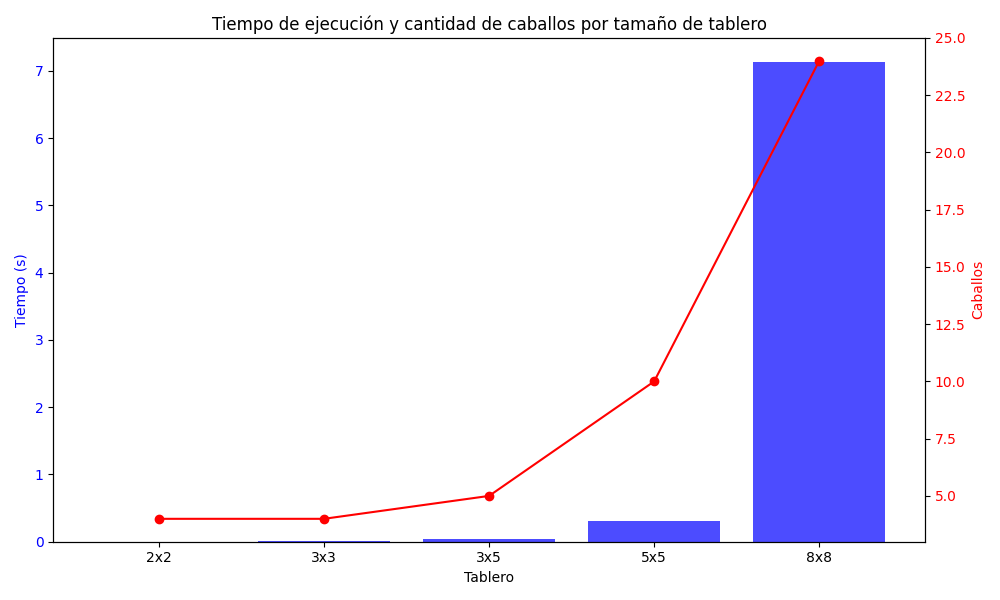
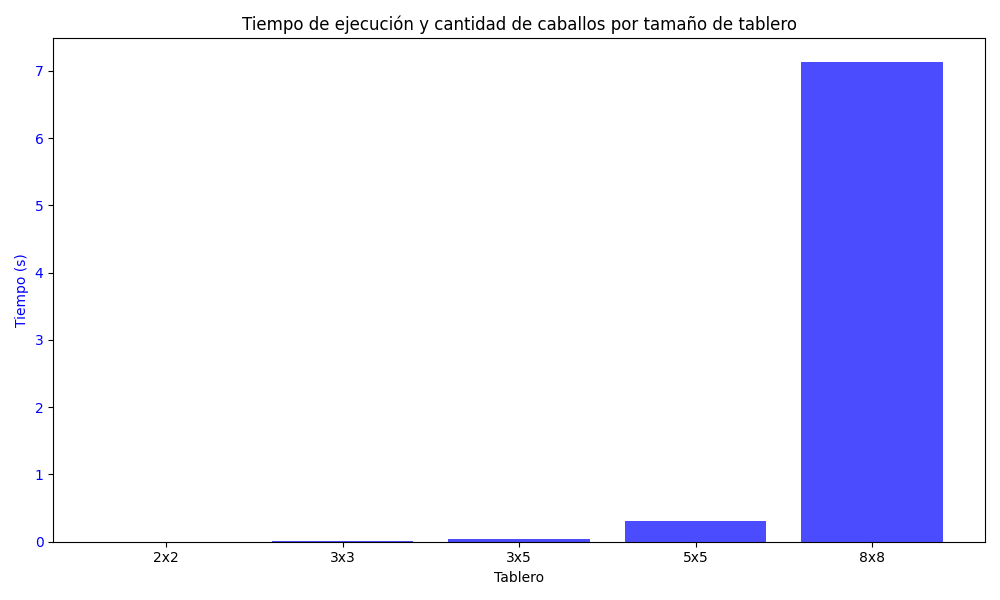
Remove knights from chart

diff --git a/ia_practica_1/utils/chart_creator.py b/ia_practica_1/utils/chart_creator.py
@@ -10,22 +10,23 @@ def create_byb_chart():
     # Datos de la tabla
     tableros = ["2x2", "3x3", "3x5", "5x5", "8x8"]
     tiempos = [0.000, 0.008, 0.040, 0.315, 7.134]
-    caballos = [4, 4, 5, 10, 24]
+    # caballos = [4, 4, 5, 10, 24]
 
     # Crear la figura y los ejes
     fig, ax1 = plt.subplots(figsize=(10, 6))
 
     # Gráfico de barras para el tiempo
     ax1.bar(tableros, tiempos, color='blue', alpha=0.7, label="Tiempo (s)")
+    # ax1.plot(tableros, tiempos, color='red', marker='o', label="Tiempo (s)")
     ax1.set_xlabel("Tablero")
     ax1.set_ylabel("Tiempo (s)", color='blue')
     ax1.tick_params(axis='y', labelcolor='blue')
 
     # Crear un segundo eje para la cantidad de caballos
-    ax2 = ax1.twinx()
-    ax2.plot(tableros, caballos, color='red', marker='o', label="Caballos")
-    ax2.set_ylabel("Caballos", color='red')
-    ax2.tick_params(axis='y', labelcolor='red')
+    # ax2 = ax1.twinx()
+    # ax2.plot(tableros, caballos, color='red', marker='o', label="Caballos")
+    # ax2.set_ylabel("Caballos", color='red')
+    # ax2.tick_params(axis='y', labelcolor='red')
 
     # Títulos y leyenda
     plt.title("Tiempo de ejecución y cantidad de caballos por tamaño de tablero")
@@ -39,3 +40,5 @@ def create_byb_chart():
     fig.savefig(img_path)
 
     plt.show()
+
+create_byb_chart()
